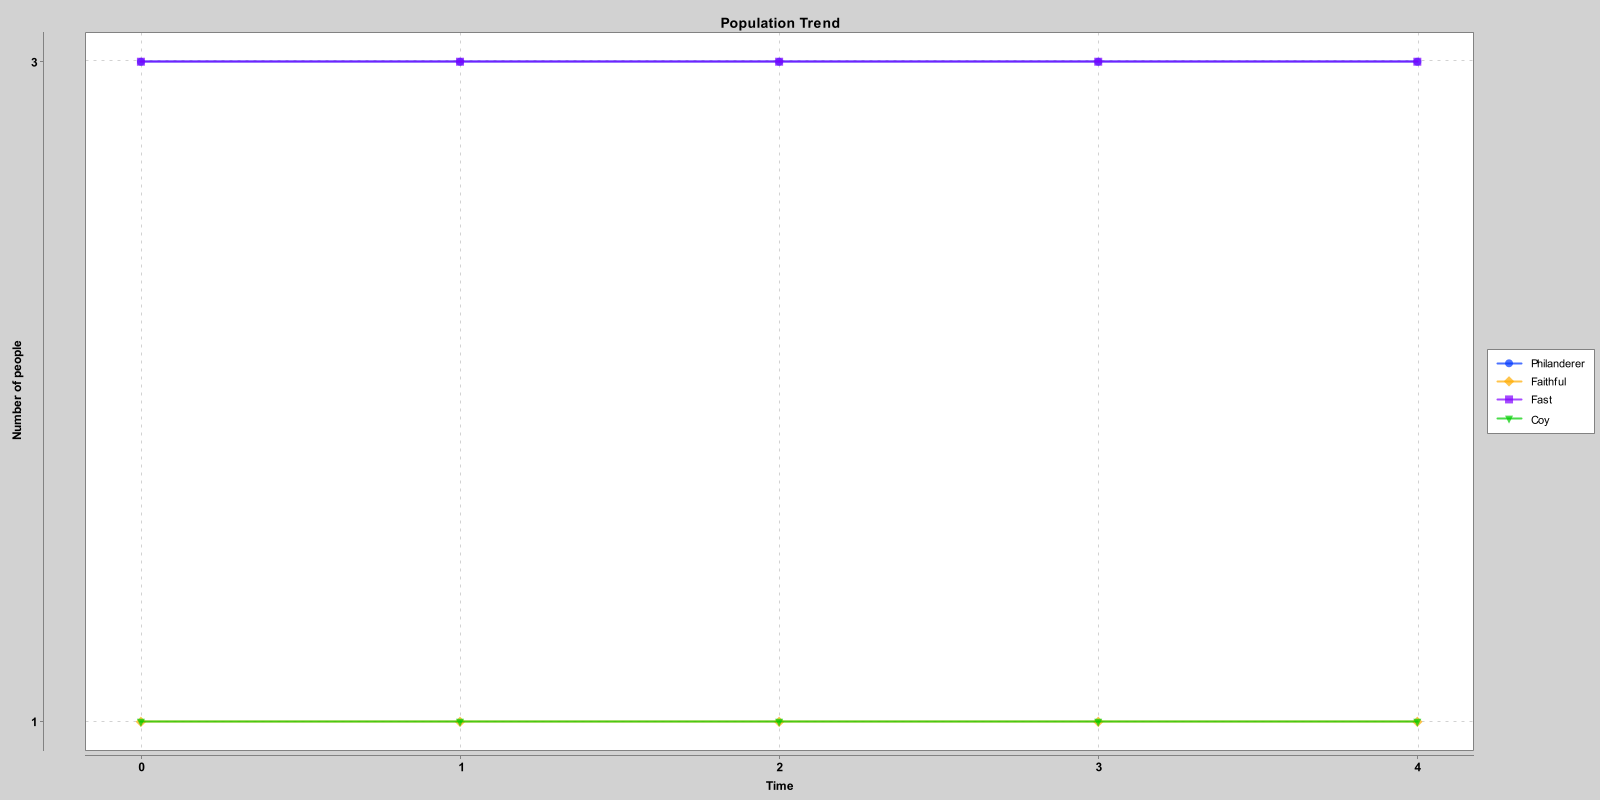
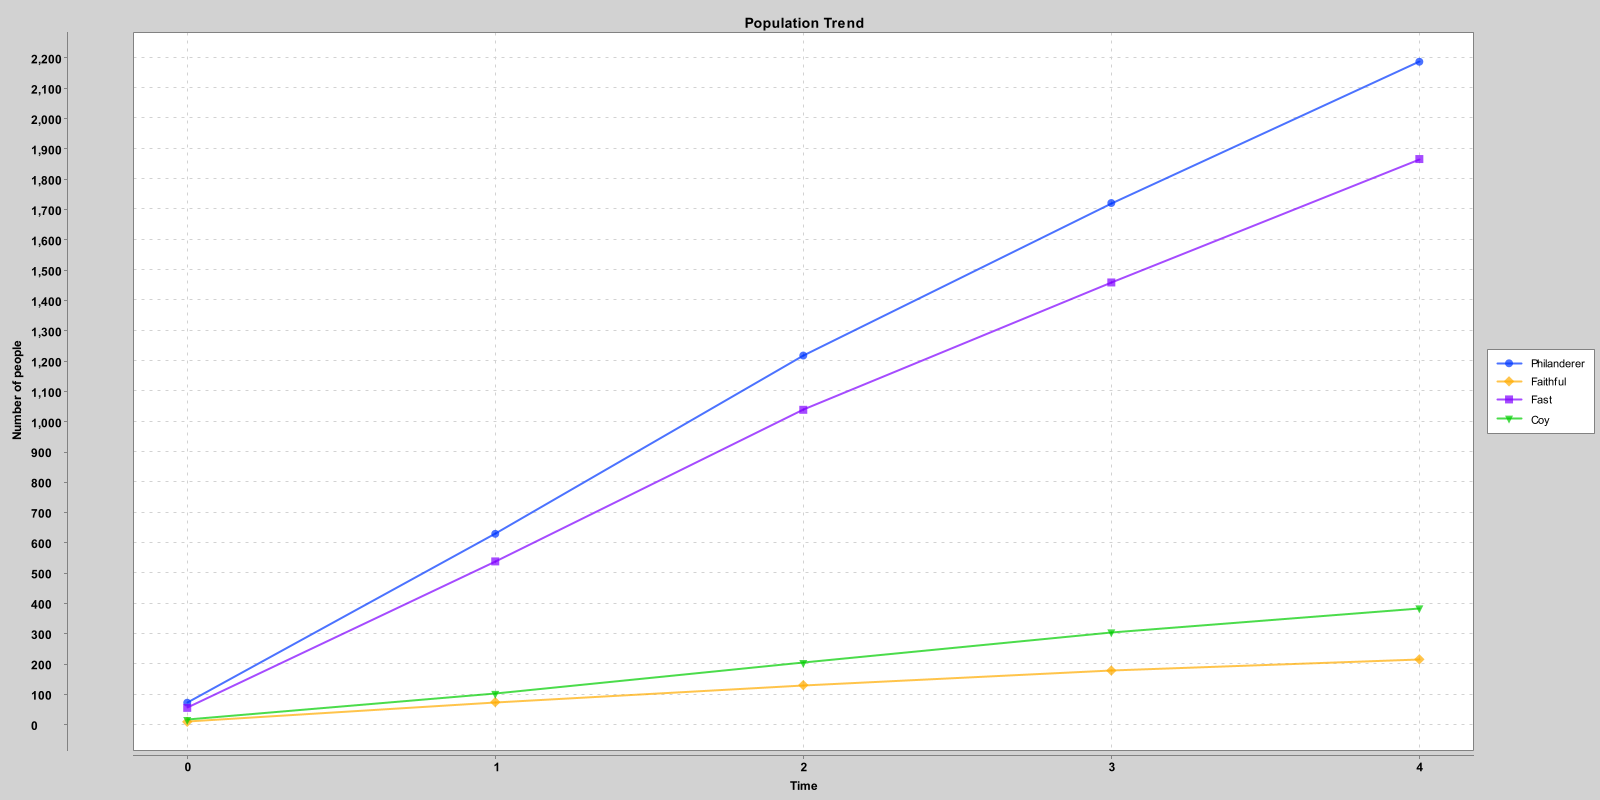
non funziona la morte, il resto ok stiamo andando alla grande amici!!!

diff --git a/src/Female.java b/src/Female.java
@@ -7,7 +7,8 @@ public class Female extends Individual{
     @Override
     public synchronized void run() {
         life();
-        System.out.println("female");
+        //System.out.println("female");
+        //todo la morte non funziona bene
     }
 
     private void life(){

diff --git a/src/Male.java b/src/Male.java
@@ -7,7 +7,8 @@ public class Male extends Individual{
     @Override
     public void run() {
         life();
-        System.out.println("male");
+        //System.out.println("male");
+        //todo la morte non funziona bene
     }
 
     private void life(){

diff --git a/src/Individual.java b/src/Individual.java
@@ -1,7 +1,7 @@
 public class Individual extends Thread {
 
     protected int type;
-    protected int points = -1;
+    protected int points = 60;
 
     protected final int a = 15;
     protected final int b = 20;
